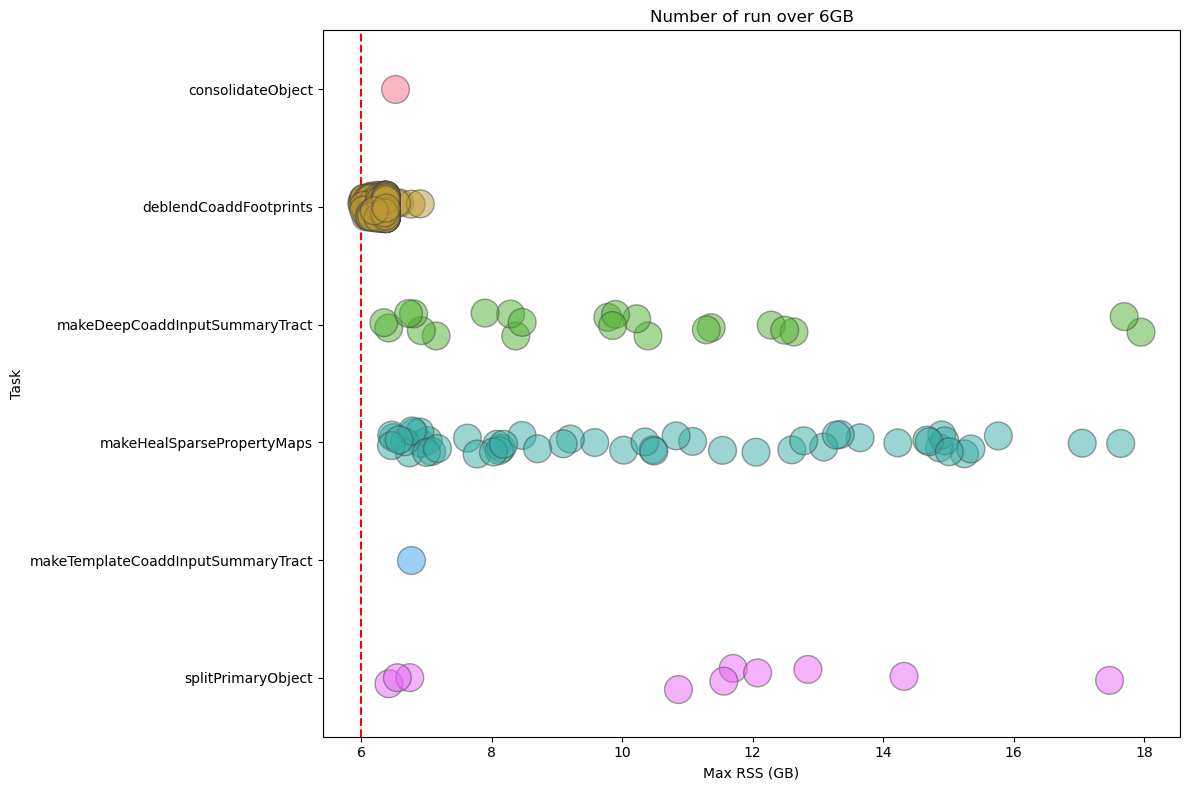
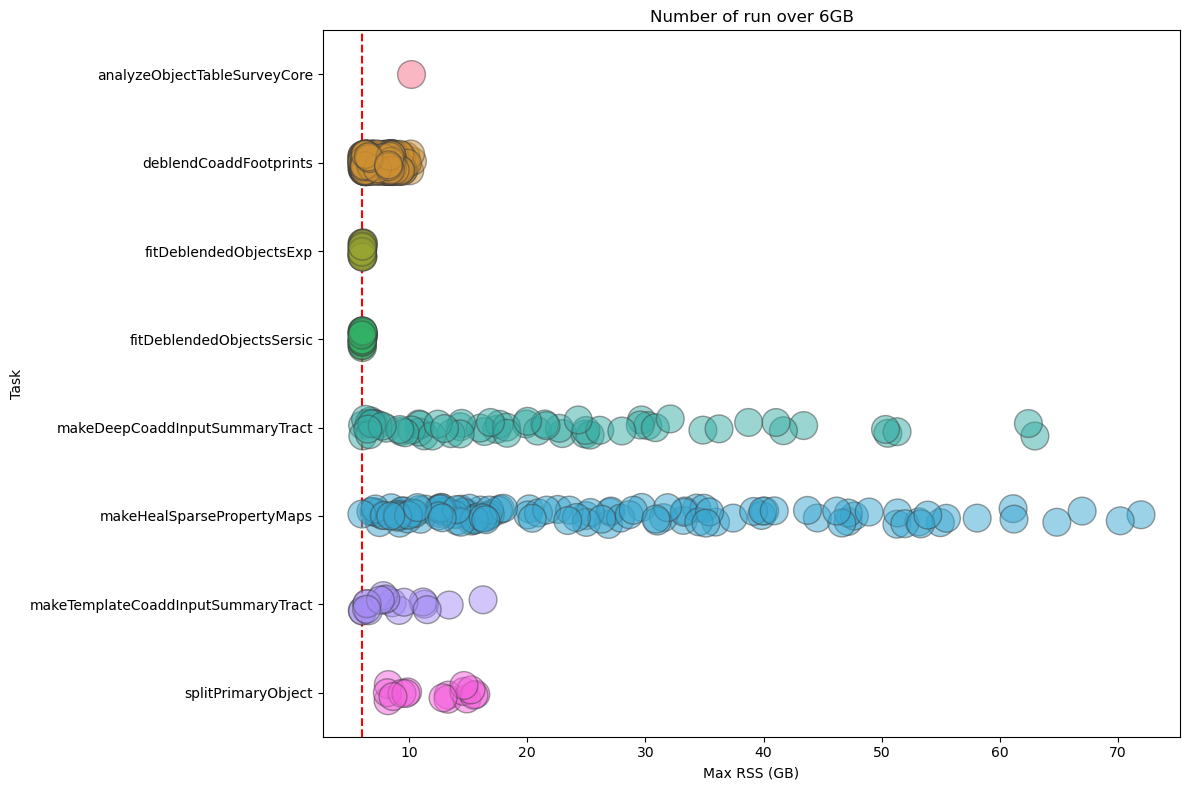
add stage 3 for SV_225

diff --git a/index.md b/index.md
@@ -593,6 +593,66 @@ As shown in the figure below—and as observed in the standard fields—the `gau
 The plot displays the number of runs (quanta) per Stage 2 pipetask that exceed the 6 GB memory threshold (dashed red line). Each circle marks the frequency (i.e., the number of quanta) at which a given task reaches a specific memory level. The size of each circle is proportional to the quanta’s wall‑time, illustrating that the impact on the cores required to handle the memory excess is now substantial for many tasks.
 ```
 
+
+
+#### Stage 3 pipetasks 
+
+Regarding Stage 3, the situation is better than in Stage 2, although, as with dense fields, the number of pipeline tasks and quanta that exceed the 6 GB threshold is higher than for non‑dense fields. For DM‑54372, a total of **2,182,659** quanta were executed; of these, **1,617** (0.07 %) exceeded the 6 GB limit, accounting for **1,074 h** of wall‑time out of a total of **76,739 h** (1.4 %).
+
+As shown in the graphs below, although some tasks display lower memory peaks when processing dense fields (notably `plopPropertyMapSurvey`, `consolidateObject`, etc.), an analysis of the 95th‑percentile memory usage shows that, overall, more memory was required to handle the dense field **Sv_225**.
+
+```{figure} ./images/deep_MaxRSSTask_v30_stage3.png
+:figclass: technote-wide-content
+
+**Maximum RSS of Stage 3 pipeline tasks for dense and non‑dense fields** 
+Dashed orange and red lines indicate the 4 GB and 6 GB memory thresholds. The increase in memory usage is evident for the `makeHealSparsePropertvMap` and `makeDeepCoaddinputSummaryTract` pipeline tasks.
+```
+
+
+```{figure} ./images/deep_95percTask_v30_stage3.png
+:figclass: technote-wide-content
+
+**95th‑percentile of max RSS of Stage 3 pipeline tasks for dense and non‑dense fields**
+The 95th‑percentile of the RSS values (95 % of pipetasks lie at or below this level). Dashed orange and red lines indicate the 4 GB and 6 GB memory thresholds.  The increase in memory usage is evident for the `makeHealSparsePropertvMap` and `makeDeepCoaddinputSummaryTract` pipeline tasks.
+```
+
+The table below shows a comparison of the statistics for the problematic tasks across the two campaigns.
+
+```{rst-class} technote-wide-content
+``` 
+|                                           |    max_rss_mean |   max_rss_median |   max_rss_min |   max_rss_max |   max_rss_95th_percentile | STACK         |
+|:------------------------------------------|----------------:|-----------------:|--------------:|--------------:|--------------------------:|:--------------|
+| analyzeObjectTableSurveyCore              |       10.172    |        10.172    |     10.172    |     10.172    |                 10.172    | v30_0_4_SV225 |
+| analyzeObjectTableSurveyCore              |        2.06782  |         2.06782  |      2.06782  |      2.06782  |                  2.06782  | v30_0_4       |
+| makeDeepCoaddInputSummaryTract            |        9.67026  |         3.43268  |      0.675789 |     62.9499   |                 39.0744   | v30_0_4_SV225 |
+| makeDeepCoaddInputSummaryTract            |        2.95651  |         0.954704 |      0.665157 |     17.955    |                 10.5732   | v30_0_4       |
+| makeHealSparsePropertyMaps                |       20.7522   |        15.017    |      1.04848  |     71.9303   |                 55.0528   | v30_0_4_SV225 |
+| makeHealSparsePropertyMaps                |        5.72563  |         4.59602  |      1.01052  |     17.6435   |                 14.9179   | v30_0_4       |
+| splitPrimaryObject                        |        8.0878   |         8.23914  |      0.644089 |     15.6442   |                 15.4146   | v30_0_4_SV225 |
+| splitPrimaryObject                        |        4.38222  |         1.9906   |      0.63155  |     17.4722   |                 13.1409   | v30_0_4       |
+
+As shown in the figure below, many pipetasks consistently use around 6 GB of memory for extended periods, up to 40 h.
+```{figure} ./images/deep_MaxRSS_stripplot_per_task_v30_upper6_stage3_walltime.png
+:figclass: technote-wide-content
+
+**DM-54372 Stage 3 Pipetask Runs Exceeding the 6 GB Memory Threshold – Frequency and Wall‑time Impact**
+The plot displays the number of runs (quanta) per Stage 3 pipetask that exceed the 6 GB memory threshold (dashed red line). Each circle marks the frequency (i.e., the number of quanta) at which a given task reaches a specific memory level. The size of each circle is proportional to the quanta’s wall‑time, illustrating that the impact on the cores required to handle the memory excess is now substantial for many tasks.
+```
+
+
+#### SV_225 processing conclusions
+
+The table below summarizes the results for the different stages, showing that, for Stage 2, processing a dense and deep field such as SV_225 may require a non‑negligible increase in memory resources, especially when the time needed for certain problematic pipetasks to finish is taken into account.
+
+```{rst-class} technote-wide-content
+```
+| Stage   | Quanta   | N. quanta > 6GB | % quanta > 6GB | Total Walltime (h)| Walltime (h) > 6GB |  % wall-time > 6GB |
+|--------:|---------:|----------------:|---------------:|------------------:| ------------------:| -----------------:|
+| Stage 1 |1,095,651 |1,880            |0.172           |23,142.842         |67.186              |0.29               |
+| Stage 2 |1,071,583 |288,912          |26.961          |60,984.435         |50123.035           |82.19              |
+| Stage 3 |2,182,659 |1,617            |0.074           |76,739.012         |1,073.987           |1.4                |
+| Stage 4 |TBD |TBD            |TBD           |TBD           |TBD          |TBD              |
+
 ### Comparison across stacks 
 
 #### Stage 1 pipetasks
